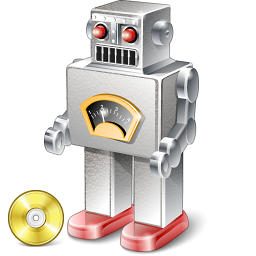
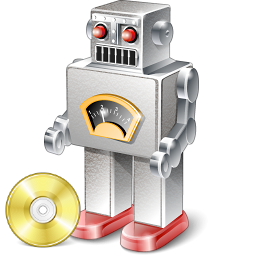
- revised product images

Changed region(s): [[0.0, 0.6562, 0.3438, 0.9688]]

diff --git a/WebSite/index.html b/WebSite/index.html
@@ -21,10 +21,10 @@
     <tbody>
       <tr>
         <td>RobotWare for Windows<br>code free automation for Windows<br>
-          <a href="Windows/index.html"><img src="robot.png" class="app_img"></a>
+          <a href="Windows/index.html"><img src="robot_windows.png" class="app_img"></a>
         </td>
         <td>RobotWare for SpaceClaim<br>code free automation for SpaceClaim<br>
-          <a href="SpaceClaim/index.html"><img src="SpaceClaim_logo.png" class="app_img">
+          <a href="SpaceClaim/index.html"><img src="robot_spaceclaim.png" class="app_img">
         </td>
         <td>RobotWare SDK<br>add your own functions to RobotWare<br>
           <a href="SDK/index.html"><img src="robot_sdk.png" class="app_img">
